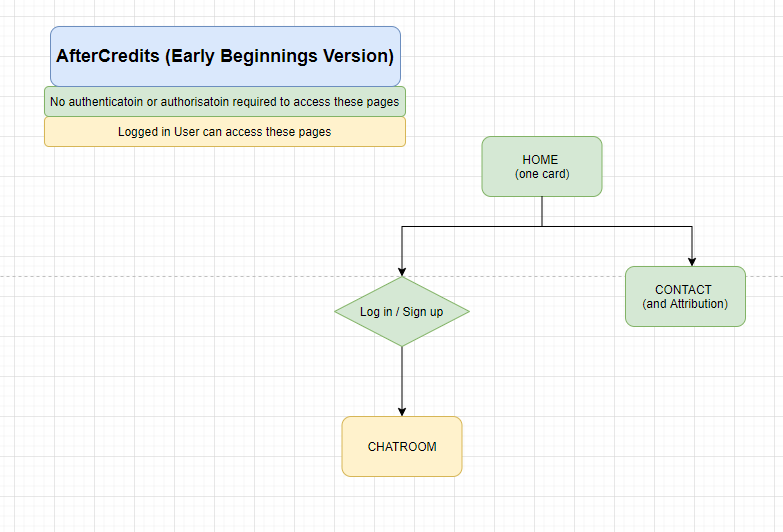
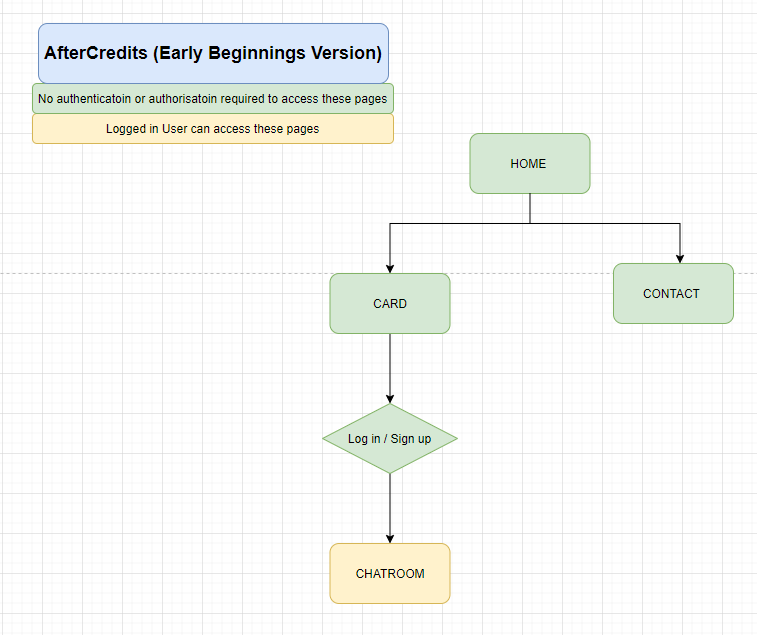
Update sitemap, add expansion version wireframes

diff --git a/README.md b/README.md
@@ -202,7 +202,11 @@ Wireframes were prepared using Balsamiq Wireframes.
 
 **A. Early Beginnings version**
 ![Core app wireframes: Early Beginnings version](docs/draft_wireframes.png)
+<br>
 
+**B. Expansion version**
+
+![Expanded app wireframes: Expansion version](docs/expanded_app_wireframes.png)
 
 ### R6: TRELLO
 https://trello.com/b/VLtFLtdT/full-stack-app
